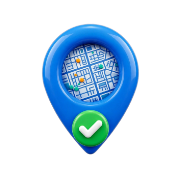
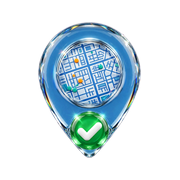
Nuevo ícono definitivo (pin de cristal con mapa y tilde)
Claude-Session: https://claude.ai/code/session_01QAkKZAx5AMTorTfvBu3av9

Changed region(s): [[0.1944, 0.1111, 0.8056, 0.8889]]

diff --git a/sw.js b/sw.js
@@ -2,7 +2,7 @@
 // - Archivos de la app: red primero (siempre la versión nueva), con respaldo en caché.
 // - Librerías externas (mapas, Excel, PDF, fuentes): caché primero.
 // - Todo lo demás (Google Drive, geocodificación, mapa base) va directo a la red.
-const CACHE = 'sube-v3';
+const CACHE = 'sube-v4';
 const PRECACHE = ['./', './index.html', './manifest.webmanifest', './planilla-predeterminada.pdf', './icons/icon-192.png'];
 const CDN = ['cdnjs.cloudflare.com', 'cdn.jsdelivr.net', 'unpkg.com', 'fonts.googleapis.com', 'fonts.gstatic.com'];
 

diff --git a/index.html b/index.html
@@ -3341,7 +3341,7 @@ async function borrarJornadaActualDrive(){
 }
 
 // ── VERSIÓN (se ve en Configuración para saber qué versión está cargada)
-const APP_VERSION='2026-10-11 · y';
+const APP_VERSION='2026-10-11 · z';
 document.getElementById('appVersion').textContent='Versión '+APP_VERSION;
 
 // ── iPhone (app instalada): la altura automática a veces no llega al borde inferior
